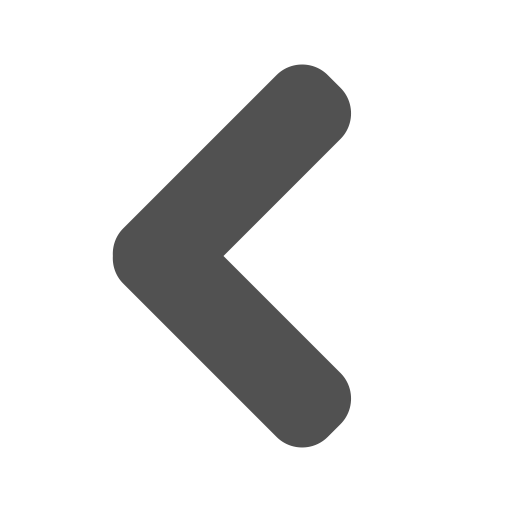
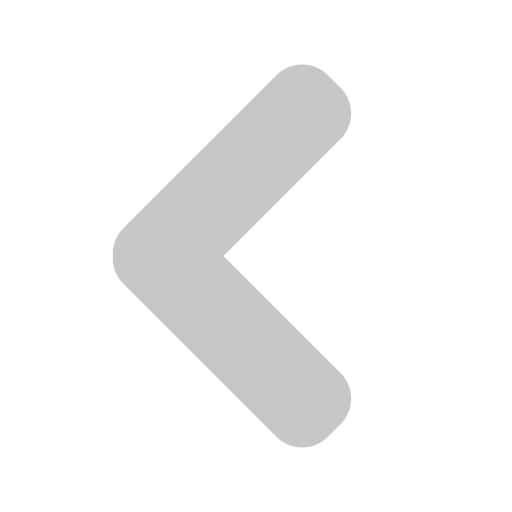
Var2

Changed region(s): [[0.2188, 0.125, 0.6875, 0.875]]

diff --git a/static/useall.css b/static/useall.css
@@ -29,17 +29,17 @@ form
 
 .inner
 {
-	background:white;
+	background:black;
 	padding:20px;
 	margin:50px auto;
 	font-size:2.5em;
 	width:700px;
-	background-color: rgba(255,255,255,0.5);
+	background-color: rgba(0,0,0,0.5);
 }
 
 img
 {
-	opacity: 0.5;
+	opacity: 0.8;
 	filter:
 }
 

diff --git a/app.py b/app.py
@@ -11,7 +11,7 @@ def first():
             inputFirst = (7*(float(request.form['input'])+3))
         else:
             inputFirst = 'Invalid Input'
-    return render_template('first.html', input=inputFirst)
+    return render_template('first', input=inputFirst)
 
 
 @app.route('/second', methods=["post","get"] )
@@ -22,7 +22,7 @@ def second():
             inputSecond = (float(request.form['input'])**2)+13
         else:
             inputSecond = 'Invalid Input'
-    return render_template('second.html', input=inputSecond)
+    return render_template('second', input=inputSecond)
 
 
 @app.route('/third', methods=["post","get"] )
@@ -33,7 +33,7 @@ def third():
             inputThird = (float(request.form['input'])**2)*3
         else:
             inputThird = 'Invalid Input'
-    return render_template('third.html', input=inputThird)
+    return render_template('third', input=inputThird)
 
 
 @app.route('/fourth', methods=["post","get"] )
@@ -44,18 +44,26 @@ def fourth():
             inputFourth = float(request.form['input']) - (10 * (float(request.form['input']) ** 0.5))
         else:
             inputFourth = 'Invalid Input'
-    return render_template('fourth.html', input=inputFourth)
+    return render_template('fourth', input=inputFourth)
 
 
 @app.route('/fifth', methods=["post","get"] )
 def fifth():
     inputFifth = None
     if request.method == "POST":
-        if re.search('[0-9]', request.form['input']):
-            inputFifth = (10*float(request.form['input']))**2
+        if re.search('[0-9]', request.form['input1'], request.form['input2']):
+            x=request.form['input1']
+            y=request.form['input2']
+            if x>y:
+                small=y
+            else:
+                small=x
+            for i in range(1,small+1):
+                if (x%i==0) and (y%i==0):
+                    inputFifth=i
         else:
             inputFifth = 'Invalid Input'
-    return render_template('fifth.html', input=inputFifth)
+    return render_template('fifth', input=inputFifth)
 
 
 @app.route('/sixth', methods=["post","get"] )
@@ -66,7 +74,7 @@ def sixth():
             inputSixth = float(request.form['input'])**2
         else:
             inputSixth = 'Invalid Input'
-    return render_template('sixth.html', input=inputSixth)
+    return render_template('sixth', input=inputSixth)
 
 
 @app.route('/seventh', methods=["post","get"] )
@@ -77,7 +85,7 @@ def seventh():
             inputSeventh = float(request.form['input'])**2
         else:
             inputSeventh = 'Invalid Input'
-    return render_template('seventh.html', input=inputSeventh)
+    return render_template('seventh', input=inputSeventh)
 
 if __name__ == '__main__':
     app.run(host='0.0.0.0', port=8000, debug=True, threaded=True)
